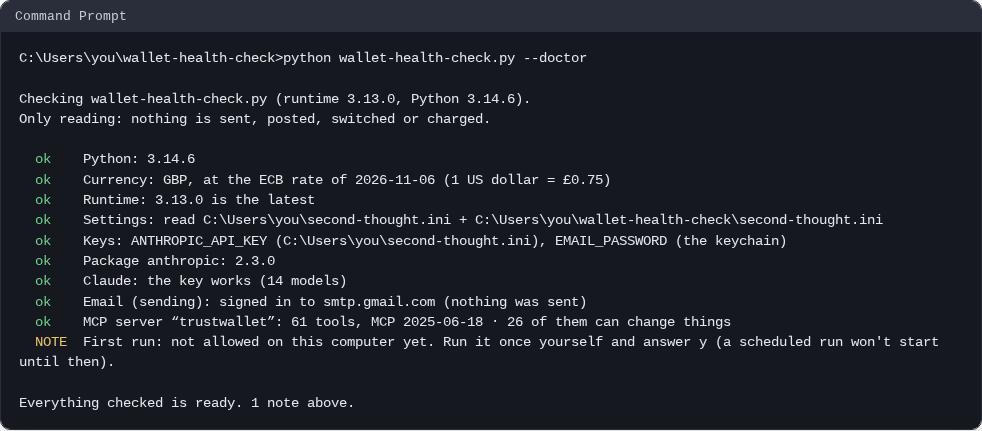
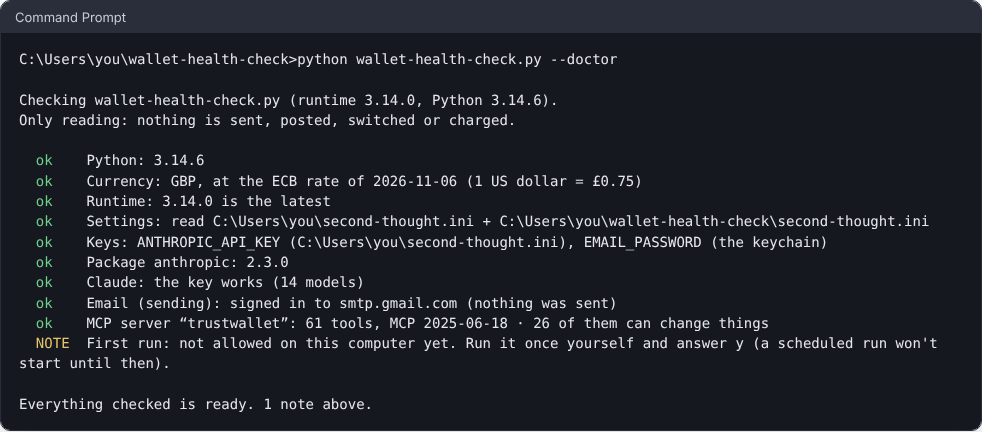
Release 3.14.0 (#559)
Unreleased becomes 3.14.0 (2026-11-23): RUNTIME_VERSION, the README badge
and the scripted --doctor picture follow, and the pictures are remade at
this runtime with tools/record_demo.py and tools/record_docs.py (#454).
Adds the changelog line the seven classical languages (#467-#473) were
missing.

Claude-Session: https://claude.ai/code/session_01SQeTCzzxrZNuwda3yAXwFT

diff --git a/second-thought.html b/second-thought.html
@@ -627,7 +627,7 @@ import urllib.request
 
 # Which runtime this is. Every exported program carries its own copy of the runtime, so this says which one it has:
 # run the program with --version to see it. What changed in each version is in CHANGELOG.md, in the Second Thought folder.
-RUNTIME_VERSION = "3.13.0"
+RUNTIME_VERSION = "3.14.0"
 
 # Windows consoles and redirected output can't always show every character; never crash over one.
 for _stream in (sys.stdout, sys.stderr):

diff --git a/tools/record_docs.py b/tools/record_docs.py
@@ -95,12 +95,12 @@ Done · 4 model calls · Claude: 2,789 tokens in, 700 out · about £0.01 at lis
 """
 DOCTOR = """C:\\Users\\you\\wallet-health-check>python wallet-health-check.py --doctor
 
-Checking wallet-health-check.py (runtime 3.13.0, Python 3.14.6).
+Checking wallet-health-check.py (runtime 3.14.0, Python 3.14.6).
 Only reading: nothing is sent, posted, switched or charged.
 
   ok    Python: 3.14.6
   ok    Currency: GBP, at the ECB rate of 2026-11-06 (1 US dollar = £0.75)
-  ok    Runtime: 3.13.0 is the latest
+  ok    Runtime: 3.14.0 is the latest
   ok    Settings: read C:\\Users\\you\\second-thought.ini + C:\\Users\\you\\wallet-health-check\\second-thought.ini
   ok    Keys: ANTHROPIC_API_KEY (C:\\Users\\you\\second-thought.ini), EMAIL_PASSWORD (the keychain)
   ok    Package anthropic: 2.3.0

diff --git a/python/runtime.py b/python/runtime.py
@@ -25,7 +25,7 @@ import urllib.request
 
 # Which runtime this is. Every exported program carries its own copy of the runtime, so this says which one it has:
 # run the program with --version to see it. What changed in each version is in CHANGELOG.md, in the Second Thought folder.
-RUNTIME_VERSION = "3.13.0"
+RUNTIME_VERSION = "3.14.0"
 
 # Windows consoles and redirected output can't always show every character; never crash over one.
 for _stream in (sys.stdout, sys.stderr):

diff --git a/python/second_thought/settings.py b/python/second_thought/settings.py
@@ -28,7 +28,7 @@ import urllib.request
 
 # Which runtime this is. Every exported program carries its own copy of the runtime, so this says which one it has:
 # run the program with --version to see it. What changed in each version is in CHANGELOG.md, in the Second Thought folder.
-RUNTIME_VERSION = "3.13.0"
+RUNTIME_VERSION = "3.14.0"
 
 # Windows consoles and redirected output can't always show every character; never crash over one.
 for _stream in (sys.stdout, sys.stderr):

diff --git a/CHANGELOG.md b/CHANGELOG.md
@@ -22,10 +22,13 @@ workflow), which is what `--update-runtime` downloads; a release made before tha
 
 ## Unreleased
 
+## 3.14.0 - 2026-11-23
+
 ### Security
 - The runtime holds two release-signing keys, the working one and a spare kept somewhere else, and `--update-runtime` accepts a release signed by either (#429): `UPDATE_SIGNING_KEY` and `UPDATE_SIGNING_SPARE_KEY` in update.py. A key can now be retired by dropping it from the next release's runtime — [SECURITY.md](SECURITY.md) says how — instead of losing it and having to re-export every program, and `--doctor` says on its Runtime line that this runtime checks signatures, and how many keys it holds. Until the first signed release both keys are empty and the SHA-256 check applies as before (#311).
 
 ### Added
+- **Seven more classical languages (#467–#473):** Church Slavonic in Glagolitic, Ge'ez, Classical Armenian, Old Irish, Ugaritic and Phoenician in their alphabets, and Old Persian in its cuneiform syllabary, each with its own font where systems lack one. Words in a script of its own are written in transliteration and turned into the script by `tools/i18n.py`, and exported Python prints the transliteration. Made by a model, so they want reading by a scholar of each language.
 - **Hindi (हिन्दी, #459):** the page, the examples and what exported programs print, in Hindi in Devanagari, with Blockly's own Hindi blocks and the Noto Sans Devanagari font; yes/no prompts in exported programs take हाँ and नहीं as well as y/n. Made by a model, so it wants reading by a Hindi speaker.
 - **Arabic (العربية, #459):** the page, the examples and what exported programs print, in Modern Standard Arabic, right to left with Blockly mirrored, and Blockly's own Arabic blocks; yes/no prompts in exported programs take نعم and لا as well as y/n. Made by a model, so it wants reading by an Arabic speaker.
 - **Korean (한국어, #459):** the page, the examples and what exported programs print, in Korean, with Blockly's own Korean blocks and Korean word order on the blocks; yes/no prompts in exported programs take 예/네 and 아니요 as well as y/n. Made by a model, so it wants reading by a Korean speaker.

diff --git a/README.md b/README.md
@@ -1,7 +1,7 @@
 # Second Thought
 
 [![CI](https://github.com/itsfja/second-thought/actions/workflows/ci.yml/badge.svg?branch=main)](https://github.com/itsfja/second-thought/actions/workflows/ci.yml)
-[![Runtime](https://img.shields.io/badge/runtime-3.13.0-blue)](CHANGELOG.md)
+[![Runtime](https://img.shields.io/badge/runtime-3.14.0-blue)](CHANGELOG.md)
 [![Python](https://img.shields.io/badge/python-3.9%E2%80%933.13-blue)](.github/workflows/ci.yml)
 [![License: MIT](https://img.shields.io/badge/license-MIT-green)](LICENSE)
 
